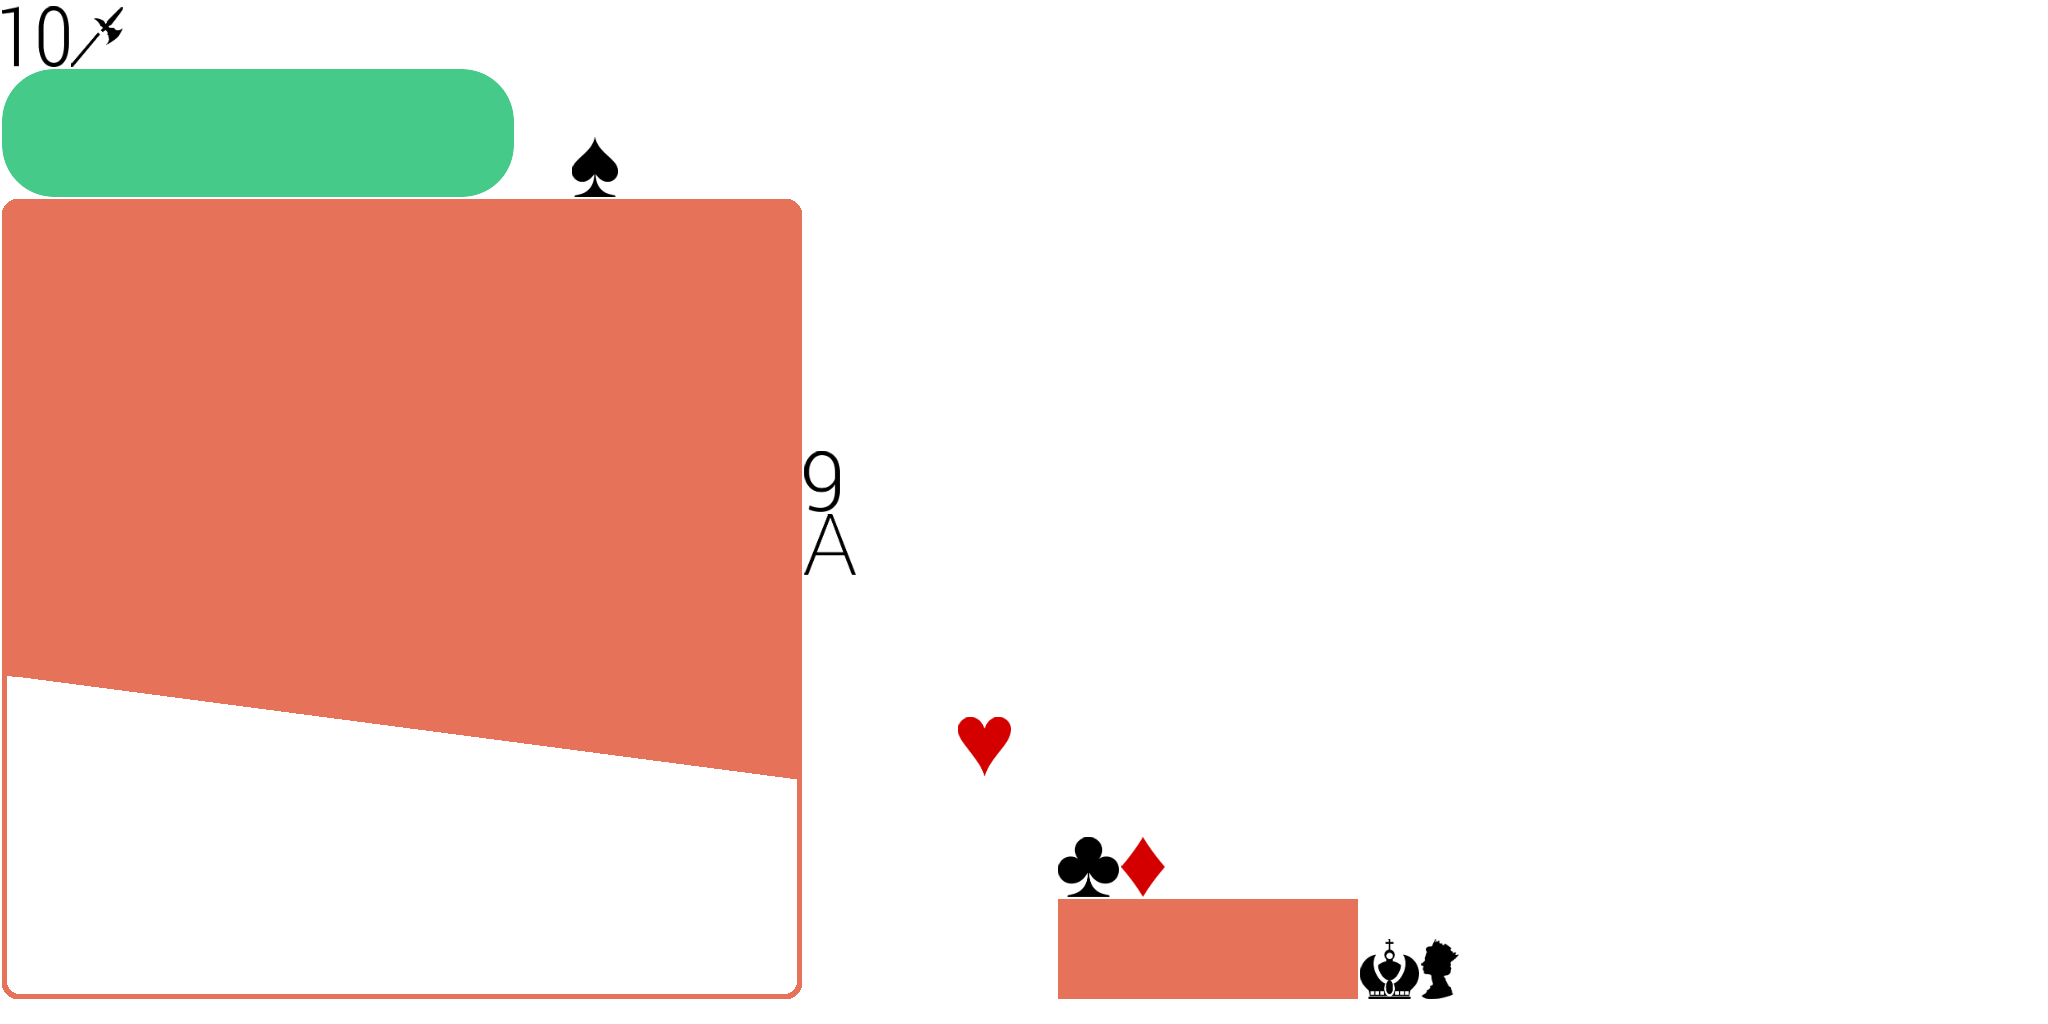
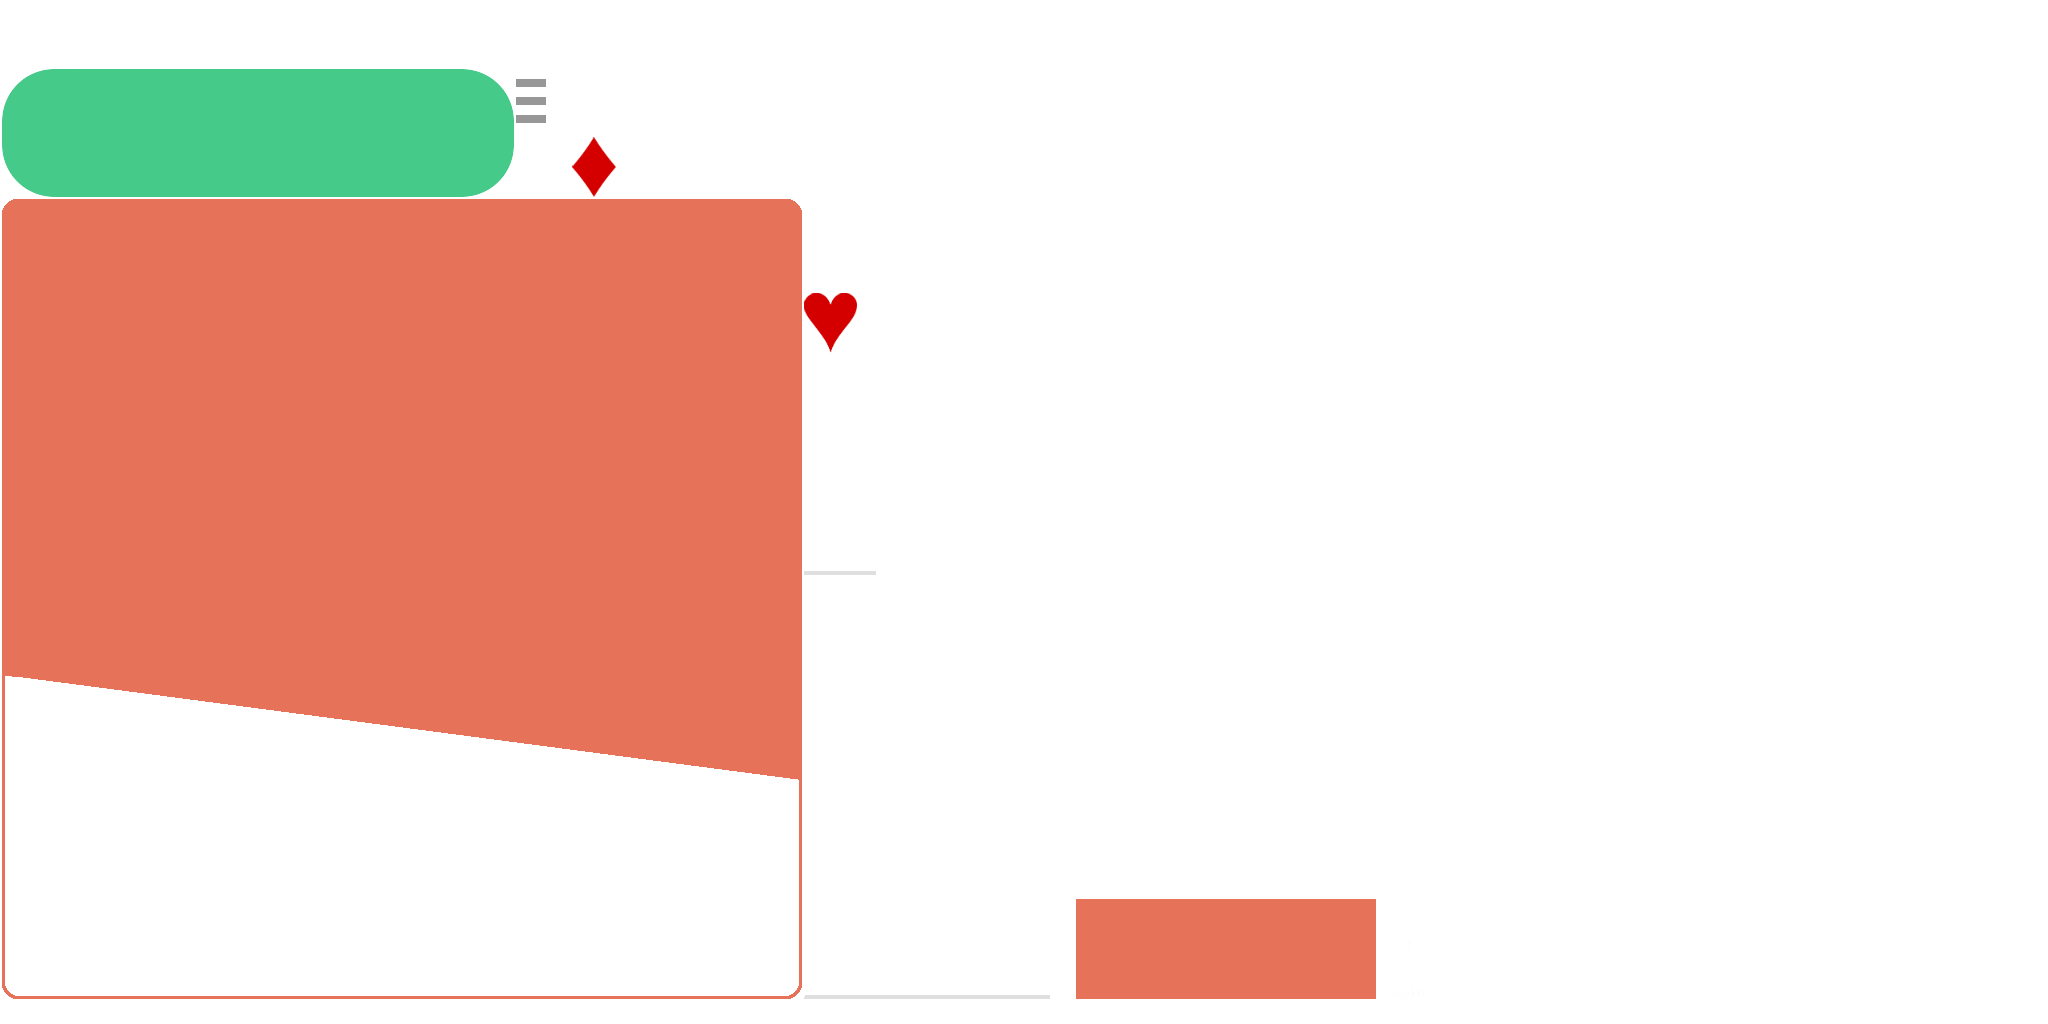
ui improvements & bug fixes

diff --git a/Cards/src/com/eg/cards/ui/TabBar.java b/Cards/src/com/eg/cards/ui/TabBar.java
@@ -8,6 +8,7 @@ import com.badlogic.gdx.scenes.scene2d.ui.Image;
 import com.badlogic.gdx.scenes.scene2d.ui.Label;
 import com.badlogic.gdx.scenes.scene2d.ui.Table;
 import com.badlogic.gdx.scenes.scene2d.ui.Label.LabelStyle;
+import com.badlogic.gdx.scenes.scene2d.ui.WidgetGroup;
 import com.badlogic.gdx.scenes.scene2d.utils.Align;
 import com.badlogic.gdx.scenes.scene2d.utils.Drawable;
 import com.badlogic.gdx.scenes.scene2d.utils.TextureRegionDrawable;
@@ -17,11 +18,12 @@ import com.eg.cards.GameLoop;
 import com.eg.cards.Card.CardSuit;
 import com.eg.cards.Card.CardSymbol;
 
-public class TabBar extends Table{
+public class TabBar extends WidgetGroup{
 	
 	private Array<Label> labels;
-	private Array<Image> avatars, icons;
-	private Array<Table> iconWrappers, tabs;
+	private Array<Image> icons, avatars;
+	private Array<Table> tabs;
+	private Image nav, drawer;
 	private LabelStyle scoreStyle;
 	private Array<AtlasRegion> iconRegions;
 	private GameLoop loop;
@@ -30,13 +32,11 @@ public class TabBar extends Table{
 		super();
 		
 		this.loop = loop;
-		
-		if (CardGame.debug) debug();
-		center();
-        defaults().expandX();
         
         AtlasRegion avatar = atlas.findRegion("avatar");
         AtlasRegion tabBg = atlas.findRegion("tab");
+        AtlasRegion navBg = atlas.findRegion("nav");
+        AtlasRegion navIcon = atlas.findRegion("drawer");
         
         iconRegions = new Array<AtlasRegion>(10);
         iconRegions.add(atlas.findRegion("9"));
@@ -51,26 +51,33 @@ public class TabBar extends Table{
         iconRegions.add(atlas.findRegion("diamond"));
         
         tabs = new Array<Table>(4);
-        
-        avatars = new Array<Image>(4);
         labels = new Array<Label>(4);
-        iconWrappers = new Array<Table>(4);
         icons = new Array<Image>(8);
+        avatars = new Array<Image>(4);
 		
 		scoreStyle = new LabelStyle();
         scoreStyle.font = font;
-        scoreStyle.fontColor = Color.BLACK;
+        scoreStyle.fontColor = Color.WHITE;
         
         for(int i=0; i<4; i++){
         	Image img = new Image(avatar);
         	img.setColor(Color.BLACK);
         	Label l = new Label("0", scoreStyle);
         	l.setAlignment(Align.center);
+        	l.setColor(Color.BLACK);
         	avatars.add(img);
         	labels.add(l);
         }
         
         for (int i=0; i<8; i++) icons.add(new Image());
+        
+        nav = new Image(navBg);
+        drawer = new Image(navIcon);
+        
+        nav.setBounds(0, 0, 96, 220);
+        drawer.setBounds(0, 89, 30, 44);
+        addActor(nav);
+        addActor(drawer);
         
         for (int i=0; i<4; i++){
         	Table tab = new Table();
@@ -86,28 +93,46 @@ public class TabBar extends Table{
         	bottom.defaults().expandX().spaceRight(20);
         	bottom.add(icons.get(2*i));
         	bottom.add(icons.get(2*i+1));
-        	iconWrappers.add(bottom);
         	
         	tab.add(top).height(120).padLeft(20).row();
         	tab.add(bottom).height(100).padRight(20);
         	
         	if (CardGame.debug) tab.debug();
+        	tab.setBounds(71+246*i, 0, 270, 220);
+        	
+        	addActor(tab);
         	tabs.add(tab);
         }
-        
-        for (Table t : tabs) add(t);
 	}
 	
 	public void update(){
-		for (int i=0; i<loop.getPlayers().size; i++)
+		for (int i=0; i<loop.getPlayers().size; i++){
 			labels.get(i).setText(Integer.toString(loop.getPlayers().get(i).getPoints()));
+			if(loop.getPlayers().get(i).getTeamVisible()){
+				tabs.get(i).setColor(Color.BLACK);
+				labels.get(i).setColor(Color.WHITE);
+				avatars.get(i).setColor(Color.WHITE);
+				icons.get(2*i).setColor(Color.WHITE);
+				icons.get(2*i+1).setColor(Color.WHITE);
+			}
+			else{
+				icons.get(2*i).setColor(Color.BLACK);
+				icons.get(2*i+1).setColor(Color.BLACK);
+			}
+		}
 		
 		for (Image img : icons) img.setDrawable(null);
 		for (int i=0; i<loop.getStack().size; i++){
 			int index = loop.getStartPlayer()+i;
 			index = index>3? index-4 : index;
-			icons.get(2*index).setDrawable(findSuit(loop.getStack().get(i)));
-			icons.get(2*index+1).setDrawable(findSymbol(loop.getStack().get(i)));
+			Card c = loop.getStack().get(i);
+			if (c.getSuit().equals(CardSuit.DIAMONDS) || c.getSuit().equals(CardSuit.HEARTS)){
+				icons.get(2*index).setColor(Color.WHITE);
+				if (!c.getSymbol().equals(CardSymbol.KING) && !c.getSymbol().equals(CardSymbol.QUEEN) && !c.getSymbol().equals(CardSymbol.KNAVE))
+					icons.get(2*index+1).setColor(GUI.RED);
+			}
+			icons.get(2*index).setDrawable(findSuit(c));
+			icons.get(2*index+1).setDrawable(findSymbol(c));
 		}
 	}
 	

diff --git a/Cards/src/com/eg/cards/Player.java b/Cards/src/com/eg/cards/Player.java
@@ -19,10 +19,14 @@ public class Player extends CardContainer{
 	}
 	
 	public Player getPartner(){ return partner; }
+	public boolean getTeamVisible(){ return team; }
 	
 	
 	public boolean playCard(final Card card, final Stack stack) throws IllegalArgumentException{
 		if (CardGame.debug) System.out.println(card + " played by " + this);
+		
+		if (card.getSymbol().equals(CardSymbol.QUEEN) && card.getSuit().equals(CardSuit.CLUBS))
+			team = true;
 		
 		if (!stack.check(card, this)) throw new IllegalArgumentException();
 		
@@ -73,22 +77,22 @@ public class Player extends CardContainer{
 				tmp = trumps.get(CardSymbol.ACE);
 				trumps.removeAll(tmp, true);
 				
-				if (trumps.size>0 || size==1){
+				if (trumps.size>0){
 					if (trumps.contains(CardSymbol.KNAVE)){
-						trumps = trumps.get(CardSymbol.KNAVE);
-						return trumps.random();
+						CardContainer knaves = trumps.get(CardSymbol.KNAVE);
+						return knaves.random();
 					}
-					else return trumps.first();
+					return trumps.first();
 				}
 			}
 			
 			//no (fitting) trump found
 			
 			if (colors.contains(CardSymbol.KING)){
-				colors = colors.get(CardSymbol.KING);
-				return colors.first();
+				CardContainer kings = colors.get(CardSymbol.KING);
+				return kings.first();
 			}
-			return colors.first();
+			if (colors.size!=0) return colors.first();
 		}
 		
 		//Play Color
@@ -150,13 +154,6 @@ public class Player extends CardContainer{
 	}
 	
 	public int getPoints(){ return points; }
-	
-	@Override
-	public boolean addCard(final Card card){
-		if (card.getSymbol().equals(CardSymbol.QUEEN) && card.getSuit().equals(CardSuit.CLUBS))
-			team = true;
-		return super.addCard(card);
-	}
 	
 	@Override
 	public void reset(){

diff --git a/Cards/src/com/eg/cards/ui/GUI.java b/Cards/src/com/eg/cards/ui/GUI.java
@@ -24,6 +24,10 @@ import com.eg.cards.GameLoop;
 
 public class GUI extends Table implements Disposable{
 	
+	public static final Color LIGHT = new Color(242/255f, 242/255f, 242/255f, 1);
+	public static final Color DARK = new Color(0.2f, 0.2f, 0.2f, 0.6f);
+	public static final Color RED = new Color(212/255f, 0, 0, 1);
+	
 	private final Table handTable, stackTable;
 	private GameLoop loop;
 	private TextureAtlas atlas;
@@ -56,11 +60,7 @@ public class GUI extends Table implements Disposable{
         msgFont = generator.generateFont(60);
         generator.dispose();
         
-	}
-	
-	public void init(GameLoop loop){
-		this.loop = loop;
-		
+
         atlas = game.getUIAtlas();
         AtlasRegion but = atlas.findRegion("button");
         AtlasRegion msgbackground = atlas.findRegion("dialog");
@@ -99,6 +99,11 @@ public class GUI extends Table implements Disposable{
         
         error.button(button);
         
+	}
+	
+	public void init(GameLoop loop){
+		this.loop = loop;
+        
         /** Tab bar */
         tabs = new TabBar(loop, atlas, defaultFont);
         
@@ -111,7 +116,7 @@ public class GUI extends Table implements Disposable{
         handTable.pad(40).defaults().expandX().space(10);
         
         
-        add(tabs).fillX().height(220).minWidth(1080);
+        add(tabs).height(220).minWidth(1080);
         row();
         add(stackPane).height(800);
         row();

diff --git a/Cards/src/com/eg/cards/ui/CardGame.java b/Cards/src/com/eg/cards/ui/CardGame.java
@@ -23,8 +23,8 @@ public class CardGame extends Game{
 		
 		uiResources = new TextureAtlas(Gdx.files.internal("ui.atlas"));
 		
-		mainMenuScreen = new MainMenuScreen(this);
 		gameScreen = new GameScreen(this);
+		mainMenuScreen = new MainMenuScreen(this);
         setScreen(mainMenuScreen);
 	}
 	

diff --git a/Cards/src/com/eg/cards/ui/GameScreen.java b/Cards/src/com/eg/cards/ui/GameScreen.java
@@ -60,7 +60,7 @@ public class GameScreen implements Screen {
 
 	@Override
 	public void render(float delta) {
-		Gdx.gl.glClearColor(121/128f, 121/128f, 121/128f, 1);
+		Gdx.gl.glClearColor(242/255f, 242/255f, 242/255f, 1);
 		Gdx.gl.glClear(GL10.GL_COLOR_BUFFER_BIT);
 	}
 
